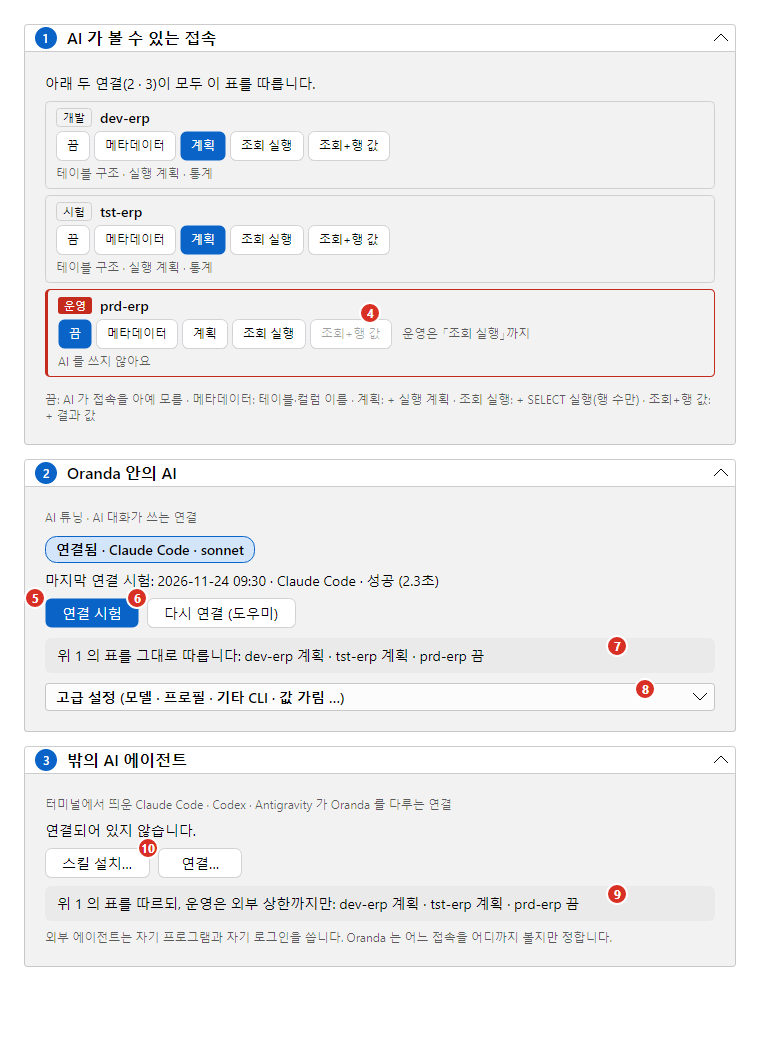
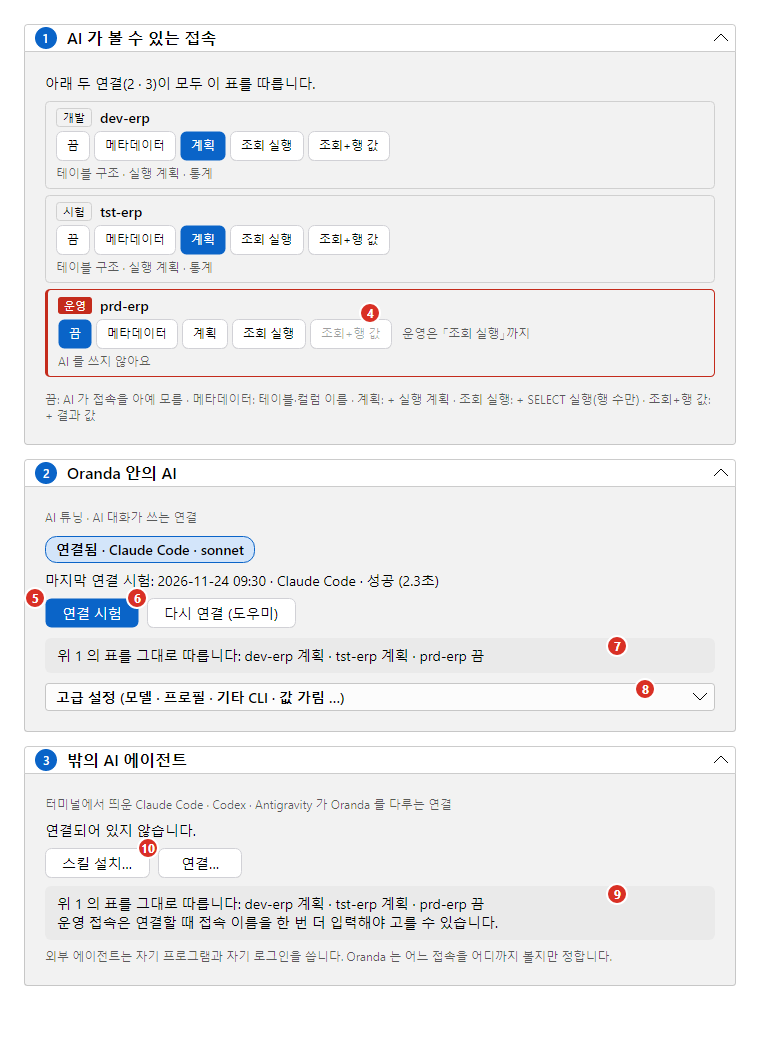
feat(ai): outside agents band and connect window show the actual level, cap marker only when lowered
Claude-Session: https://claude.ai/code/session_01M9hnLTmsLvuBj8uXGbJb5L

Changed region(s): [[0.0605, 0.8406, 0.7868, 0.934]]

diff --git a/tests/Oranda.App.Tests/Features/Ai/AiSettingsHubTests.cs b/tests/Oranda.App.Tests/Features/Ai/AiSettingsHubTests.cs
@@ -121,7 +121,7 @@ public sealed class AiSettingsHubTests
         Assert.Equal("위 1 의 표를 그대로 따릅니다: dev-erp 계획 · prd-erp 계획", hub.InsideSummary);
         var prdOut = AiConnectionAccess.Of(Prd with { AiAccess = AiAccessLevel.Plan });
         var prdText = hub.Access!.Text.LevelName(prdOut.ExternalLevel) + (prdOut.ExternalCapped ? " (외부 상한)" : string.Empty);
-        Assert.Equal("위 1 의 표를 따르되, 운영은 외부 상한까지만: dev-erp 계획 · prd-erp " + prdText, hub.OutsideSummary);
+        Assert.Equal("위 1 의 표를 그대로 따릅니다: dev-erp 계획 · prd-erp " + prdText + "\n운영 접속은 연결할 때 접속 이름을 한 번 더 입력해야 고를 수 있습니다.", hub.OutsideSummary);
         Assert.Equal("외부 에이전트는 자기 프로그램과 자기 로그인을 씁니다. Oranda 는 어느 접속을 어디까지 볼지만 정합니다.", hub.OutsideNote);
 
         hub.Access.Rows[0].Level = AiAccessLevel.QueryRows; // ① 에서 바꾸면 두 줄이 같이 바뀐다
@@ -386,7 +386,8 @@ public sealed class AiSettingsHubTests
             Assert.Contains(AccessTableView.SelectedClass, prdRows.Single(b => ((AccessLevelButton)b.DataContext!).Level == AiAccessLevel.Query).Classes);
             Assert.Contains(view.AccessGroup.GetVisualDescendants().OfType<TextBlock>(), t => t.Text == "운영은 「조회 실행」까지");
             Assert.StartsWith("위 1 의 표를 그대로 따릅니다", view.InsideSummary.Text, StringComparison.Ordinal);
-            Assert.StartsWith("위 1 의 표를 따르되", view.OutsideSummary.Text, StringComparison.Ordinal);
+            Assert.StartsWith("위 1 의 표를 그대로 따릅니다", view.OutsideSummary.Text, StringComparison.Ordinal);
+            Assert.EndsWith("운영 접속은 연결할 때 접속 이름을 한 번 더 입력해야 고를 수 있습니다.", view.OutsideSummary.Text, StringComparison.Ordinal);
             Assert.True(view.TestButton.IsVisible);
             Assert.True(view.ReconnectButton.IsVisible);
 

diff --git a/tests/Oranda.App.Tests/Features/Ai/External/ExternalAgentConnectTests.cs b/tests/Oranda.App.Tests/Features/Ai/External/ExternalAgentConnectTests.cs
@@ -68,7 +68,7 @@ public sealed class ExternalAgentConnectTests
         Assert.False(Row(vm, "test-a").IsChecked);
         Assert.False(Row(vm, "prd-a").IsChecked);
         var prd = Row(vm, "prd-a");
-        Assert.Equal(ExternalAgentConnectionRow.LevelName(prd.ExternalLevel) + " (외부 상한 · 고르려면 접속 이름을 다시 입력)", prd.LevelText);
+        Assert.Equal(ExternalAgentConnectionRow.LevelName(prd.ExternalLevel) + (prd.ExternalLevel < prd.CurrentLevel ? " (외부 상한 · 고르려면 접속 이름을 다시 입력)" : " (고르려면 접속 이름을 다시 입력)"), prd.LevelText);
         Assert.Equal(AgentGrantPolicy.LevelFor(prd.Profile, AgentGrantPolicy.DefaultCap(ConnectionEnvironment.Production)), prd.ExternalLevel);
         Assert.True(prd.IsProductionMarked);
         Assert.False(Row(vm, "dev-a").IsProductionMarked);
@@ -177,7 +177,12 @@ public sealed class ExternalAgentConnectTests
         var prd = Row(vm, "prd-a");
 
         Assert.Equal("조회 + 행 값", dev.LevelText);
-        Assert.Equal(ExternalAgentConnectionRow.LevelName(prd.ExternalLevel) + " (외부 상한 · 고르려면 접속 이름을 다시 입력)", prd.LevelText);
+        Assert.Equal(ExternalAgentConnectionRow.LevelName(prd.ExternalLevel) + (prd.ExternalLevel < prd.CurrentLevel ? " (외부 상한 · 고르려면 접속 이름을 다시 입력)" : " (고르려면 접속 이름을 다시 입력)"), prd.LevelText);
+        if (AgentGrantPolicy.ProductionRuns)
+        {
+            Assert.Equal("조회 실행 (고르려면 접속 이름을 다시 입력)", prd.LevelText); // Mac 시안 문구: 실제 수준을 보이고 상한 말은 낮출 때만
+        }
+
         Assert.Equal("에이전트가 볼 수 있는 접속", ExternalAgentConnectViewModel.ConnectionsTitle);
         Assert.Contains("설정 > AI", ExternalAgentConnectViewModel.LevelsLinkText, StringComparison.Ordinal);
         Assert.Contains("한곳(설정 > AI)", ExternalAgentConnectViewModel.OnlyChooseNote, StringComparison.Ordinal);

diff --git a/src/Oranda.App/Features/Ai/Settings/AiSettingsHubPage.cs b/src/Oranda.App/Features/Ai/Settings/AiSettingsHubPage.cs
@@ -334,9 +334,15 @@ public sealed partial class AiSettingsHubPage : ObservableObject, IDisposable
 
     public string OutsideCollapsedHint => _t.T("필요한 사람만. 터미널에서 AI 를 쓰는 개발자용", "Only if you need it: for developers who use AI in a terminal");
 
-    /// <summary>회색 띠: 「위 1 의 표를 따르되, 운영은 외부 상한까지만: prd-erp 조회 실행 · …」(상한이 실제로 낮출 때 「(외부 상한)」).</summary>
-    public string OutsideSummary => _t.T("위 1 의 표를 따르되, 운영은 외부 상한까지만: ", "Follows table 1, production only up to the external cap: ")
-        + Levels(a => (a.ExternalLevel, a.ExternalCapped));
+    /// <summary>
+    /// 회색 띠(Mac 시안 문구 2026-11-24): 「위 1 의 표를 그대로 따릅니다: dev-erp 계획 · prd-erp 조회 실행」. 수준은 min(접속 수준, 외부 상한)이고
+    /// 상한이 실제로 낮출 때만 「(외부 상한)」 을 붙인다. 운영 접속이 있으면 둘째 줄 「운영 접속은 연결할 때 접속 이름을 한 번 더 입력해야 고를 수 있습니다」.
+    /// </summary>
+    public string OutsideSummary => _t.T("위 1 의 표를 그대로 따릅니다: ", "Follows table 1 as is: ")
+        + Levels(a => (a.ExternalLevel, a.ExternalCapped))
+        + (Access?.Rows.Any(r => r.IsProduction) == true
+            ? "\n" + _t.T("운영 접속은 연결할 때 접속 이름을 한 번 더 입력해야 고를 수 있습니다.", "Production connections can be chosen only after typing the connection name once more when connecting.")
+            : string.Empty);
 
     public string OutsideNote => _t.T("외부 에이전트는 자기 프로그램과 자기 로그인을 씁니다. Oranda 는 어느 접속을 어디까지 볼지만 정합니다.",
         "External agents use their own program and their own sign-in. Oranda only decides which connections they can see and how far.");

diff --git a/src/Oranda.App/Features/Ai/External/Connect/ExternalAgentConnectViewModel.cs b/src/Oranda.App/Features/Ai/External/Connect/ExternalAgentConnectViewModel.cs
@@ -62,10 +62,12 @@ public sealed partial class ExternalAgentConnectionRow : ObservableObject
     public AiAccessLevel ExternalLevel => AgentGrantPolicy.LevelFor(Profile, AgentGrantPolicy.DefaultCap(Profile.Environment));
 
     /// <summary>
-    /// 줄의 수준 글(글자만): 실효 수준 = min(접속 수준, 외부 상한)(<see cref="AiConnectionAccess"/>). 운영 줄은 「(외부 상한 · 고르려면 접속 이름을 다시 입력)」.
+    /// 줄의 수준 글(글자만): 실효 수준 = min(접속 수준, 외부 상한)(<see cref="AiConnectionAccess"/>). 운영 줄은 실제 수준 뒤에 「(고르려면 접속 이름을 다시 입력)」, 외부 상한이 실제로 낮췄으면 「(외부 상한 · …)」.
     /// 수준을 바꾸는 곳은 설정 「AI」 탭 ① 하나다(이 창은 「이번 연결에 쓸 접속」 만 고른다).
     /// </summary>
-    public string LevelText => LevelName(ExternalLevel) + (IsProductionMarked ? ExternalAgentText.ProductionLevelNote : string.Empty);
+    public string LevelText => LevelName(ExternalLevel) + (!IsProductionMarked ? string.Empty
+        : ExternalLevel < CurrentLevel ? ExternalAgentText.ProductionCappedLevelNote
+        : ExternalAgentText.ProductionLevelNote);
 
     /// <summary>운영 행 경고 「운영 접속 — LLM 이 SELECT 를 자동 실행합니다」: 운영이고 허가 수준이 조회 실행 이상(스위치를 끄면 Metadata 라 숨는다).</summary>
     public bool ShowsRunWarning => IsProductionMarked && ExternalLevel >= AiAccessLevel.Query;

diff --git a/src/Oranda.App/Features/Ai/External/Connect/ExternalAgentText.cs b/src/Oranda.App/Features/Ai/External/Connect/ExternalAgentText.cs
@@ -46,8 +46,11 @@ internal static class ExternalAgentText
         "이 창에서는 「이번 연결에 쓸 접속」만 고릅니다. 접속마다 볼 수 있는 수준은 한곳(설정 > AI)에서만 바꿉니다.",
         "In this window you only choose the connections for this session. What each connection lets AI see is changed in one place: Settings > AI.");
 
-    /// <summary>운영 줄 수준 글 뒤에 붙는 말.</summary>
-    public static string ProductionLevelNote => T(" (외부 상한 · 고르려면 접속 이름을 다시 입력)", " (external cap · type the connection name again to choose it)");
+    /// <summary>운영 줄 수준 글 뒤에 붙는 말(Mac 시안 문구: 「조회 실행 (고르려면 접속 이름을 다시 입력)」).</summary>
+    public static string ProductionLevelNote => T(" (고르려면 접속 이름을 다시 입력)", " (type the connection name again to choose it)");
+
+    /// <summary>외부 상한이 실제로 수준을 낮춘 운영 줄의 말.</summary>
+    public static string ProductionCappedLevelNote => T(" (외부 상한 · 고르려면 접속 이름을 다시 입력)", " (external cap · type the connection name again to choose it)");
 
     /// <summary>상태 표시줄 띠: 허가에 운영 접속이 들어 있다(§3.2 경고색 띠).</summary>
     public static string StatusProduction => T("운영 포함", "includes production");

diff --git a/docs/oranda1/research/ai-settings-one-place-2026-11-24.md b/docs/oranda1/research/ai-settings-one-place-2026-11-24.md
@@ -94,11 +94,16 @@
 
 | 항목 | 시안 | 한 것 | 까닭 |
 |---|---|---|---|
-| 운영 외부 수준 | 「prod-erp 메타데이터 (외부 상한)」 | 지금 빌드는 「조회 실행」, 「(외부 상한)」 은 상한이 실제로 낮출 때만 | 운영 외부 상한은 `AgentGrantPolicy.ProductionRuns`(D5 확정, 켬)를 따라 「조회+행 값」이다. min(조회 실행, 조회+행 값) = 조회 실행. 스위치를 끈 빌드에서만 메타데이터(외부 상한)가 된다. 값은 정책 함수 그대로 쓰고 두 경우를 시험으로 고정했다(`AiConnectionAccessTests`) |
+| 운영 외부 수준 | 「prod-erp 메타데이터 (외부 상한)」 | 지금 빌드는 「조회 실행」, 「(외부 상한)」 은 상한이 실제로 낮출 때만 | 운영 외부 상한은 `AgentGrantPolicy.ProductionRuns`(D5 확정, 켬)를 따라 「조회+행 값」이다. min(조회 실행, 조회+행 값) = 조회 실행. Mac 세션이 확인했고 스위치는 그대로 둔다. 두 경우를 시험으로 고정했다(`AiConnectionAccessTests`) |
 | ③ 의 운영 SELECT 스위치 | 「있으면 둔다」 | 두지 않음 | 사용자 설정이 아니라 코드 상수(`ProductionRuns`)다 |
 | 운영 줄 「조회+행 값」 점선 | 점선 | 꺼진 단추(투명 바탕·옅은 테두리) | Avalonia 단추 테두리에 점선 꼴이 없다. 눌리지 않고 옆에 「운영은 「조회 실행」까지」 를 둔다 |
 | 상태 표시줄 띠를 누르면 ③ 으로 | 누르면 곧바로 | 누르면 나오는 목록(최근 호출·끊기·연장·스킬 다시 설치)의 맨 아래 링크 | 띠를 누르는 동작은 이미 최근 호출 목록을 여는 데 쓰인다. 곧바로 옮기면 그 목록·「끊기」 가 없어진다 |
 | 탭의 「연결 시험」 대상 | — | 저장된 설정의 대상 | 카드는 저장된 값을 본다(1회차와 같음) |
+
+### 7.2.1 문구 고침(Mac 시안 확인 뒤, 커밋 9절)
+
+- ③ 회색 띠: 「위 1 의 표를 그대로 따릅니다: dev-erp 계획 · prd-erp 조회 실행」 + (운영 접속이 있으면) 「운영 접속은 연결할 때 접속 이름을 한 번 더 입력해야 고를 수 있습니다.」 「(외부 상한)」 은 상한이 실제로 낮춘 접속에만.
+- 연결 창 운영 줄: 「조회 실행 (고르려면 접속 이름을 다시 입력)」 — 실제 수준을 보이고, 「외부 상한 · 」 은 상한이 실제로 낮췄을 때만.
 
 ### 7.3 사용자 확인표 추가 (macOS)
 

diff --git a/site/src/content/docs/ai/external-agents.md b/site/src/content/docs/ai/external-agents.md
@@ -33,7 +33,7 @@ Oranda 밖에서 쓰는 LLM CLI(Claude Code, Codex, Antigravity의 `agy`, openco
 **도구 > AI 설정…**을 누르고 「AI」 탭의 3 「밖의 AI 에이전트」에서 **연결…**을 누릅니다. 같은 묶음에 지금 연결 상태, 스킬 설치 상태, **스킬 설치…** 단추가 있습니다. 창마다 따로 켭니다. 켠 창만 CLI가 찾을 수 있습니다.
 
 - 외부 에이전트는 자기 프로그램(CLI)과 자기 로그인을 씁니다. Oranda 는 접속마다 어디까지 볼지만 정합니다. 그 수준은 설정 「AI」 탭 1 「AI 가 볼 수 있는 접속」 한 표에서 정하고, Oranda 안의 AI 와 같은 표를 씁니다. 운영 접속은 외부 상한까지만 받습니다.
-- 연결 창은 「이번 연결에 쓸 접속」만 고릅니다. 표 「에이전트가 볼 수 있는 접속」의 줄마다 이름·환경·실제로 받는 수준이 글자로 나옵니다. 운영 줄은 「(외부 상한 · 고르려면 접속 이름을 다시 입력)」입니다. 수준을 바꾸려면 표 아래 「수준 바꾸기: 설정 > AI 의 접속 표 열기」를 누릅니다. 예전의 「조회 허용」 확인란은 없어졌습니다. 개발·시험 접속을 「조회+행 값」으로 올리는 일은 그 표에서 합니다.
+- 연결 창은 「이번 연결에 쓸 접속」만 고릅니다. 표 「에이전트가 볼 수 있는 접속」의 줄마다 이름·환경·실제로 받는 수준이 글자로 나옵니다. 운영 줄은 「조회 실행 (고르려면 접속 이름을 다시 입력)」처럼 실제 수준 뒤에 안내가 붙습니다. 외부 상한이 수준을 실제로 낮춘 경우에만 「(외부 상한 · …)」이 붙습니다. 수준을 바꾸려면 표 아래 「수준 바꾸기: 설정 > AI 의 접속 표 열기」를 누릅니다. 예전의 「조회 허용」 확인란은 없어졌습니다. 개발·시험 접속을 「조회+행 값」으로 올리는 일은 그 표에서 합니다.
 
 [AI 연결 도우미](../setup/#해-보기)의 마지막 단계 「해 보기」에서 「검은 창의 Claude Code 에서도 Oranda 시키기(고급)」를 켜고 끝내도 이 창이 열립니다.
 
